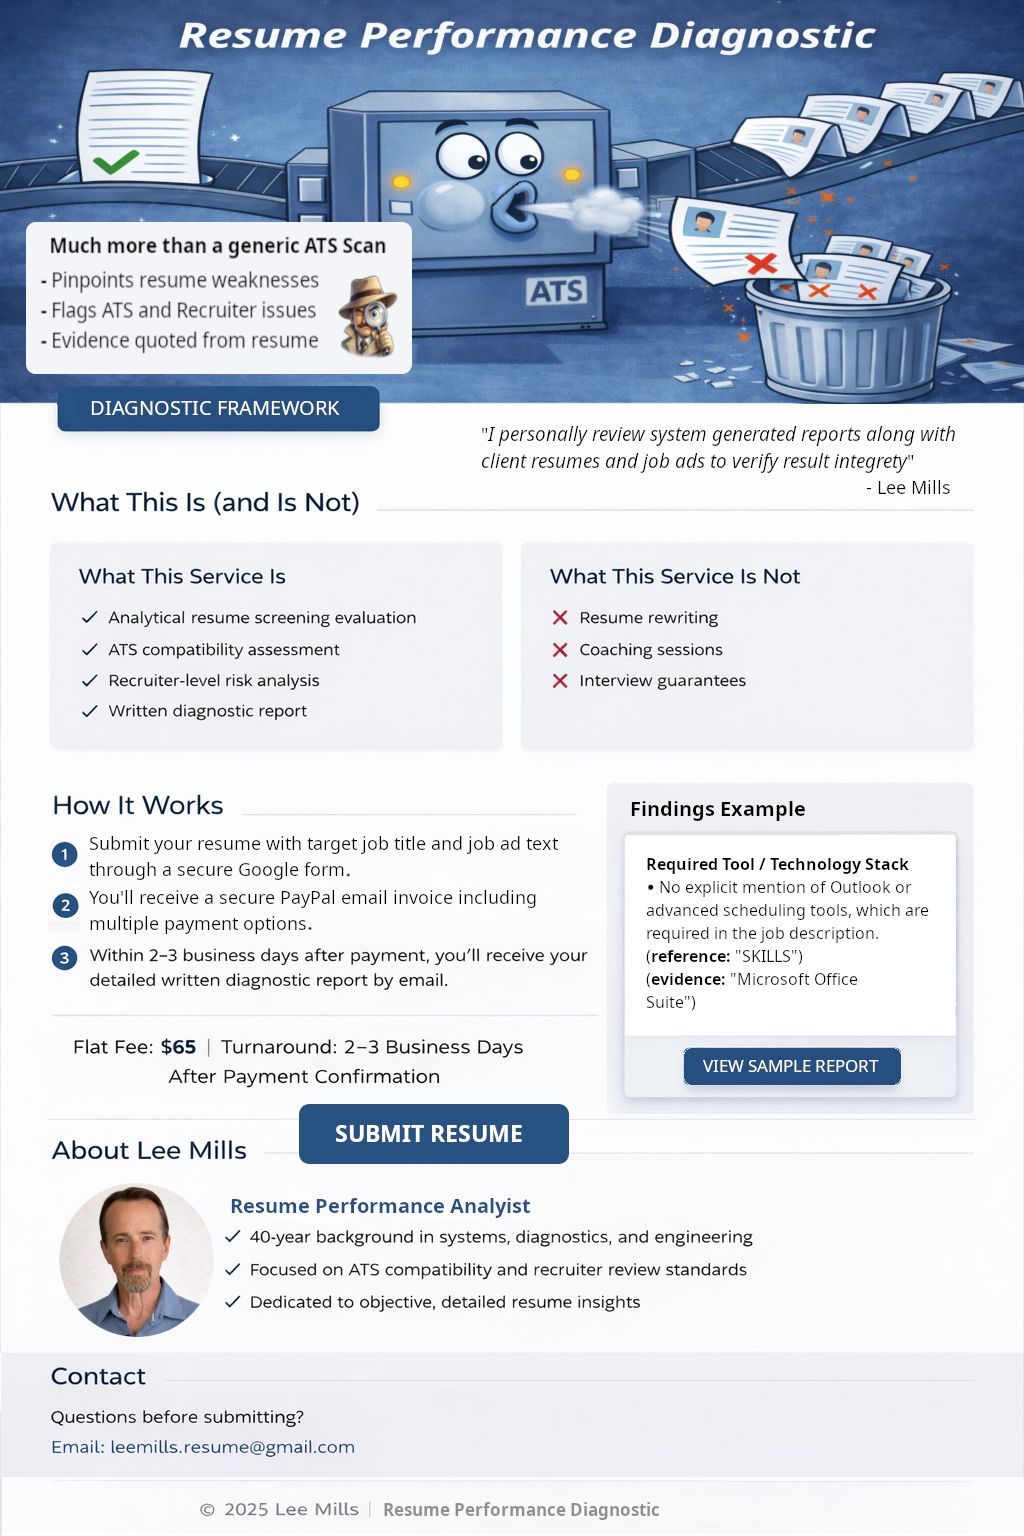
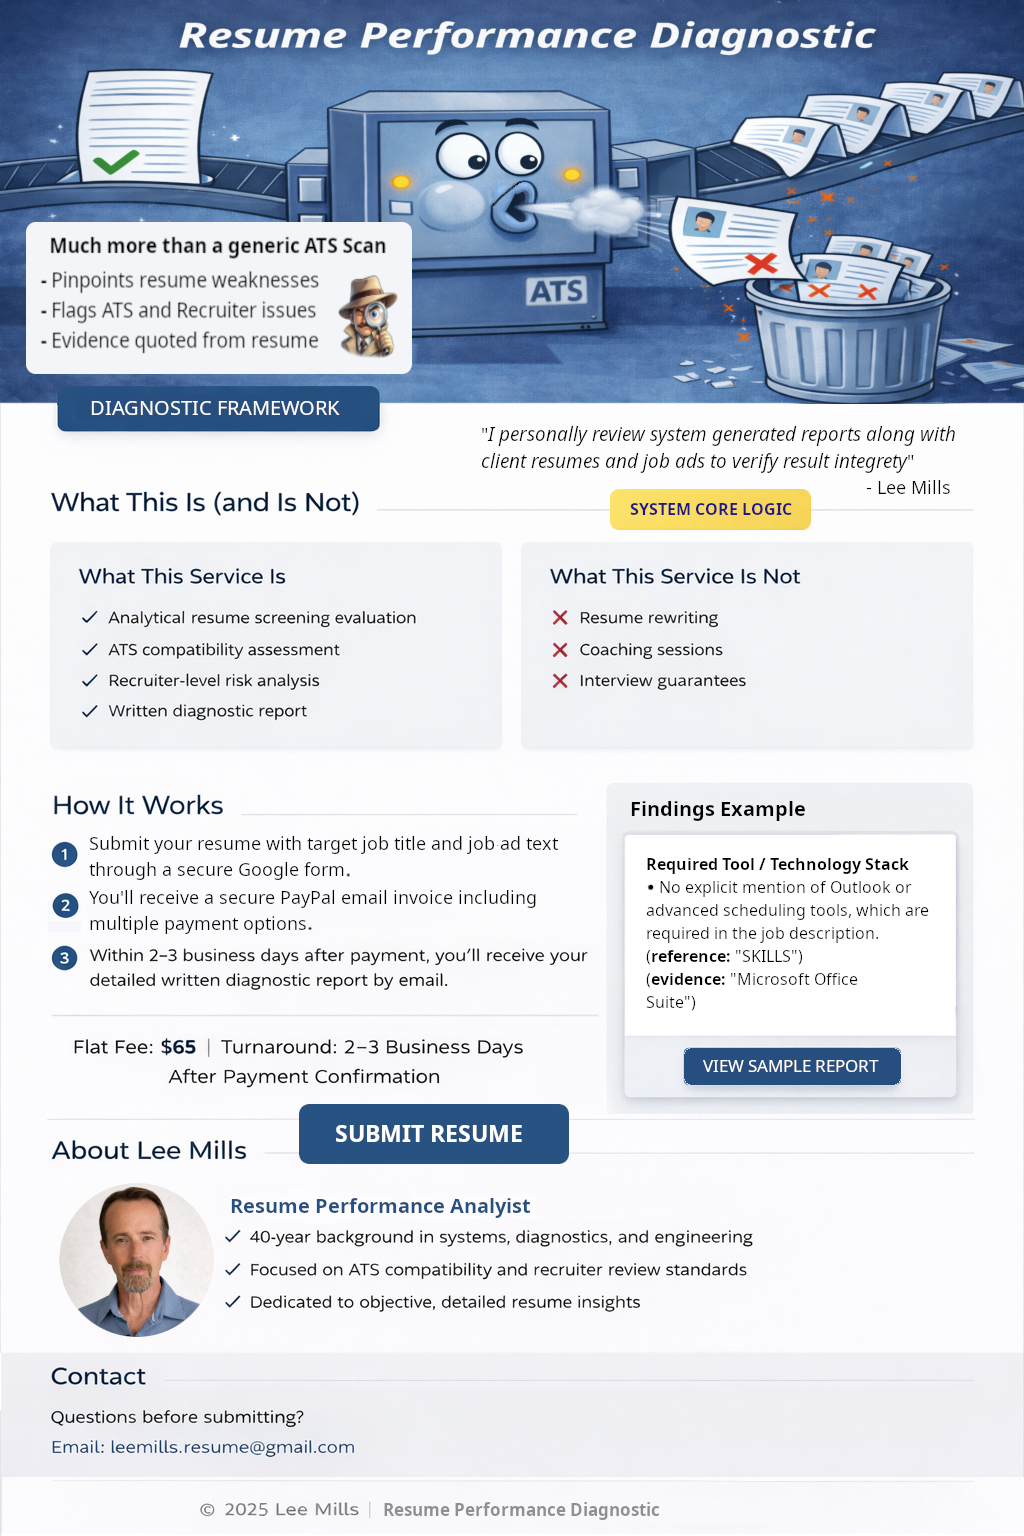
Add files via upload

Changed region(s): [[0.5938, 0.3125, 0.8125, 0.3438]]

diff --git a/index.html b/index.html
@@ -4,12 +4,13 @@
   <meta charset="utf-8" />
   <meta name="viewport" content="width=device-width,initial-scale=1" />
   <title>Resume Performance Diagnostic</title>
-<!-- LinkedIn / Open Graph preview -->
-<meta property="og:title" content="Resume Performance Diagnostic">
-<meta property="og:description" content="ATS Compatibility and Recruiter Review Detailed Diagnostics">
-<meta property="og:image" content="https://lee-mills.github.io/Resume-Performance-Diagnostic/Website_Preview.png">
-<meta property="og:url" content="https://lee-mills.github.io/Resume-Performance-Diagnostic/">
-<meta property="og:type" content="website">
+  <!-- LinkedIn / Open Graph preview -->
+  <meta property="og:title" content="Resume Performance Diagnostic">
+  <meta property="og:description" content="ATS Compatibility and Recruiter Review Detailed Diagnostics">
+  <meta property="og:image" content="https://lee-mills.github.io/Resume-Performance-Diagnostic/Website_Preview.png">
+  <meta property="og:url" content="https://lee-mills.github.io/Resume-Performance-Diagnostic/">
+  <meta property="og:type" content="website">
+
   <style>
     body{
       margin:0;
@@ -20,8 +21,7 @@
       background:#0b1b2b;
       font-family:system-ui,-apple-system,Segoe UI,Roboto,Arial,sans-serif;
     }
-    
-   
+
     /* Stage keeps the image aspect ratio so overlays never drift */
     .stage{
       position:relative;
@@ -65,8 +65,10 @@
     /* Screen-reader label */
     .sr-only{
       position:absolute;
-      width:1px;height:1px;
-      padding:0;margin:-1px;
+      width:1px;
+      height:1px;
+      padding:0;
+      margin:-1px;
       overflow:hidden;
       clip:rect(0,0,0,0);
       white-space:nowrap;
@@ -109,6 +111,48 @@
       display:block;
       border-radius:10px;
     }
+
+    /* System Core popup */
+    dialog#scModal{
+      border:none;
+      padding:0;
+      border-radius:12px;
+      width:min(760px, 86vw);
+      box-shadow:0 20px 60px rgba(0,0,0,0.45);
+    }
+    dialog#scModal::backdrop{
+      background:rgba(0,0,0,0.55);
+    }
+    .scModalInner{
+      position:relative;
+      background:#ffffff;
+      padding:24px;
+      max-height:78vh;
+      overflow-y:auto;
+    }
+    .scModalClose{
+      position:absolute;
+      top:10px;
+      right:10px;
+      border:0;
+      border-radius:10px;
+      padding:8px 10px;
+      cursor:pointer;
+      background:#0b1b2b;
+      color:#fff;
+      font-weight:600;
+      font-size:14px;
+      line-height:1;
+    }
+    .scCopy{
+      color:#111;
+      font-size:18px;
+      line-height:1.7;
+      padding-right:12px;
+    }
+    .scCopy p{
+      margin:0;
+    }
   </style>
 </head>
 
@@ -128,6 +172,21 @@
               height: 2.757%;
             ">
       <span class="sr-only">Diagnostic Framework</span>
+    </button>
+
+    <!-- SYSTEM CORE (popup) -->
+    <button class="hotspot"
+            id="btnSystemCore"
+            type="button"
+            aria-haspopup="dialog"
+            aria-label="System Core"
+            style="
+              left: 59.7802%;
+              top: 31.5430%;
+              width: 19.1209%;
+              height: 3.2715%;
+            ">
+      <span class="sr-only">System Core</span>
     </button>
 
     <!-- VIEW SAMPLE REPORT (OPEN PDF IN NEW TAB) -->
@@ -159,7 +218,8 @@
        ">
       <span class="sr-only">Submit Resume</span>
     </a>
-        <!-- CONTACT EMAIL -->
+
+    <!-- CONTACT EMAIL -->
     <a class="hotspot"
        href="mailto:leemills.resume@gmail.com"
        aria-label="Contact email"
@@ -181,6 +241,18 @@
     </div>
   </dialog>
 
+  <!-- System Core modal -->
+  <dialog id="scModal" aria-label="System Core">
+    <div class="scModalInner">
+      <button class="scModalClose" type="button" id="scCloseBtn">Close</button>
+      <div class="scCopy">
+        <p><strong>SYSTEM CORE:</strong><br>
+          OpenAI functions as the heuristic analysis layer within the diagnostic pipeline. Before deterministic scoring and report generation occur, the system submits extracted resume text together with the target job title and any job description for guided evaluation under a defined prompt-based rule set. OpenAI then performs a qualitative assessment using semantic matching, contextual interpretation, evidence found in the resume text, and the prompt’s instructed judgment rules to determine alignment with each required criterion. That assessment is returned as structured JSON, which the script then validates and uses downstream for deterministic scoring, field population, and report generation.
+        </p>
+      </div>
+    </div>
+  </dialog>
+
   <script>
     // DIAGNOSTIC FRAMEWORK popup
     const dfBtn = document.getElementById("btnDiagnosticFramework");
@@ -193,6 +265,18 @@
     });
 
     dfCloseBtn.addEventListener("click", () => dfModal.close());
+
+    // SYSTEM CORE popup
+    const scBtn = document.getElementById("btnSystemCore");
+    const scModal = document.getElementById("scModal");
+    const scCloseBtn = document.getElementById("scCloseBtn");
+
+    scBtn.addEventListener("click", () => {
+      if (typeof scModal.showModal === "function") scModal.showModal();
+      else alert("Your browser does not support <dialog>. Use a modern browser.");
+    });
+
+    scCloseBtn.addEventListener("click", () => scModal.close());
 
     // VIEW SAMPLE REPORT (open PDF in a new tab)
     const sampleBtn = document.getElementById("btnSampleReport");
